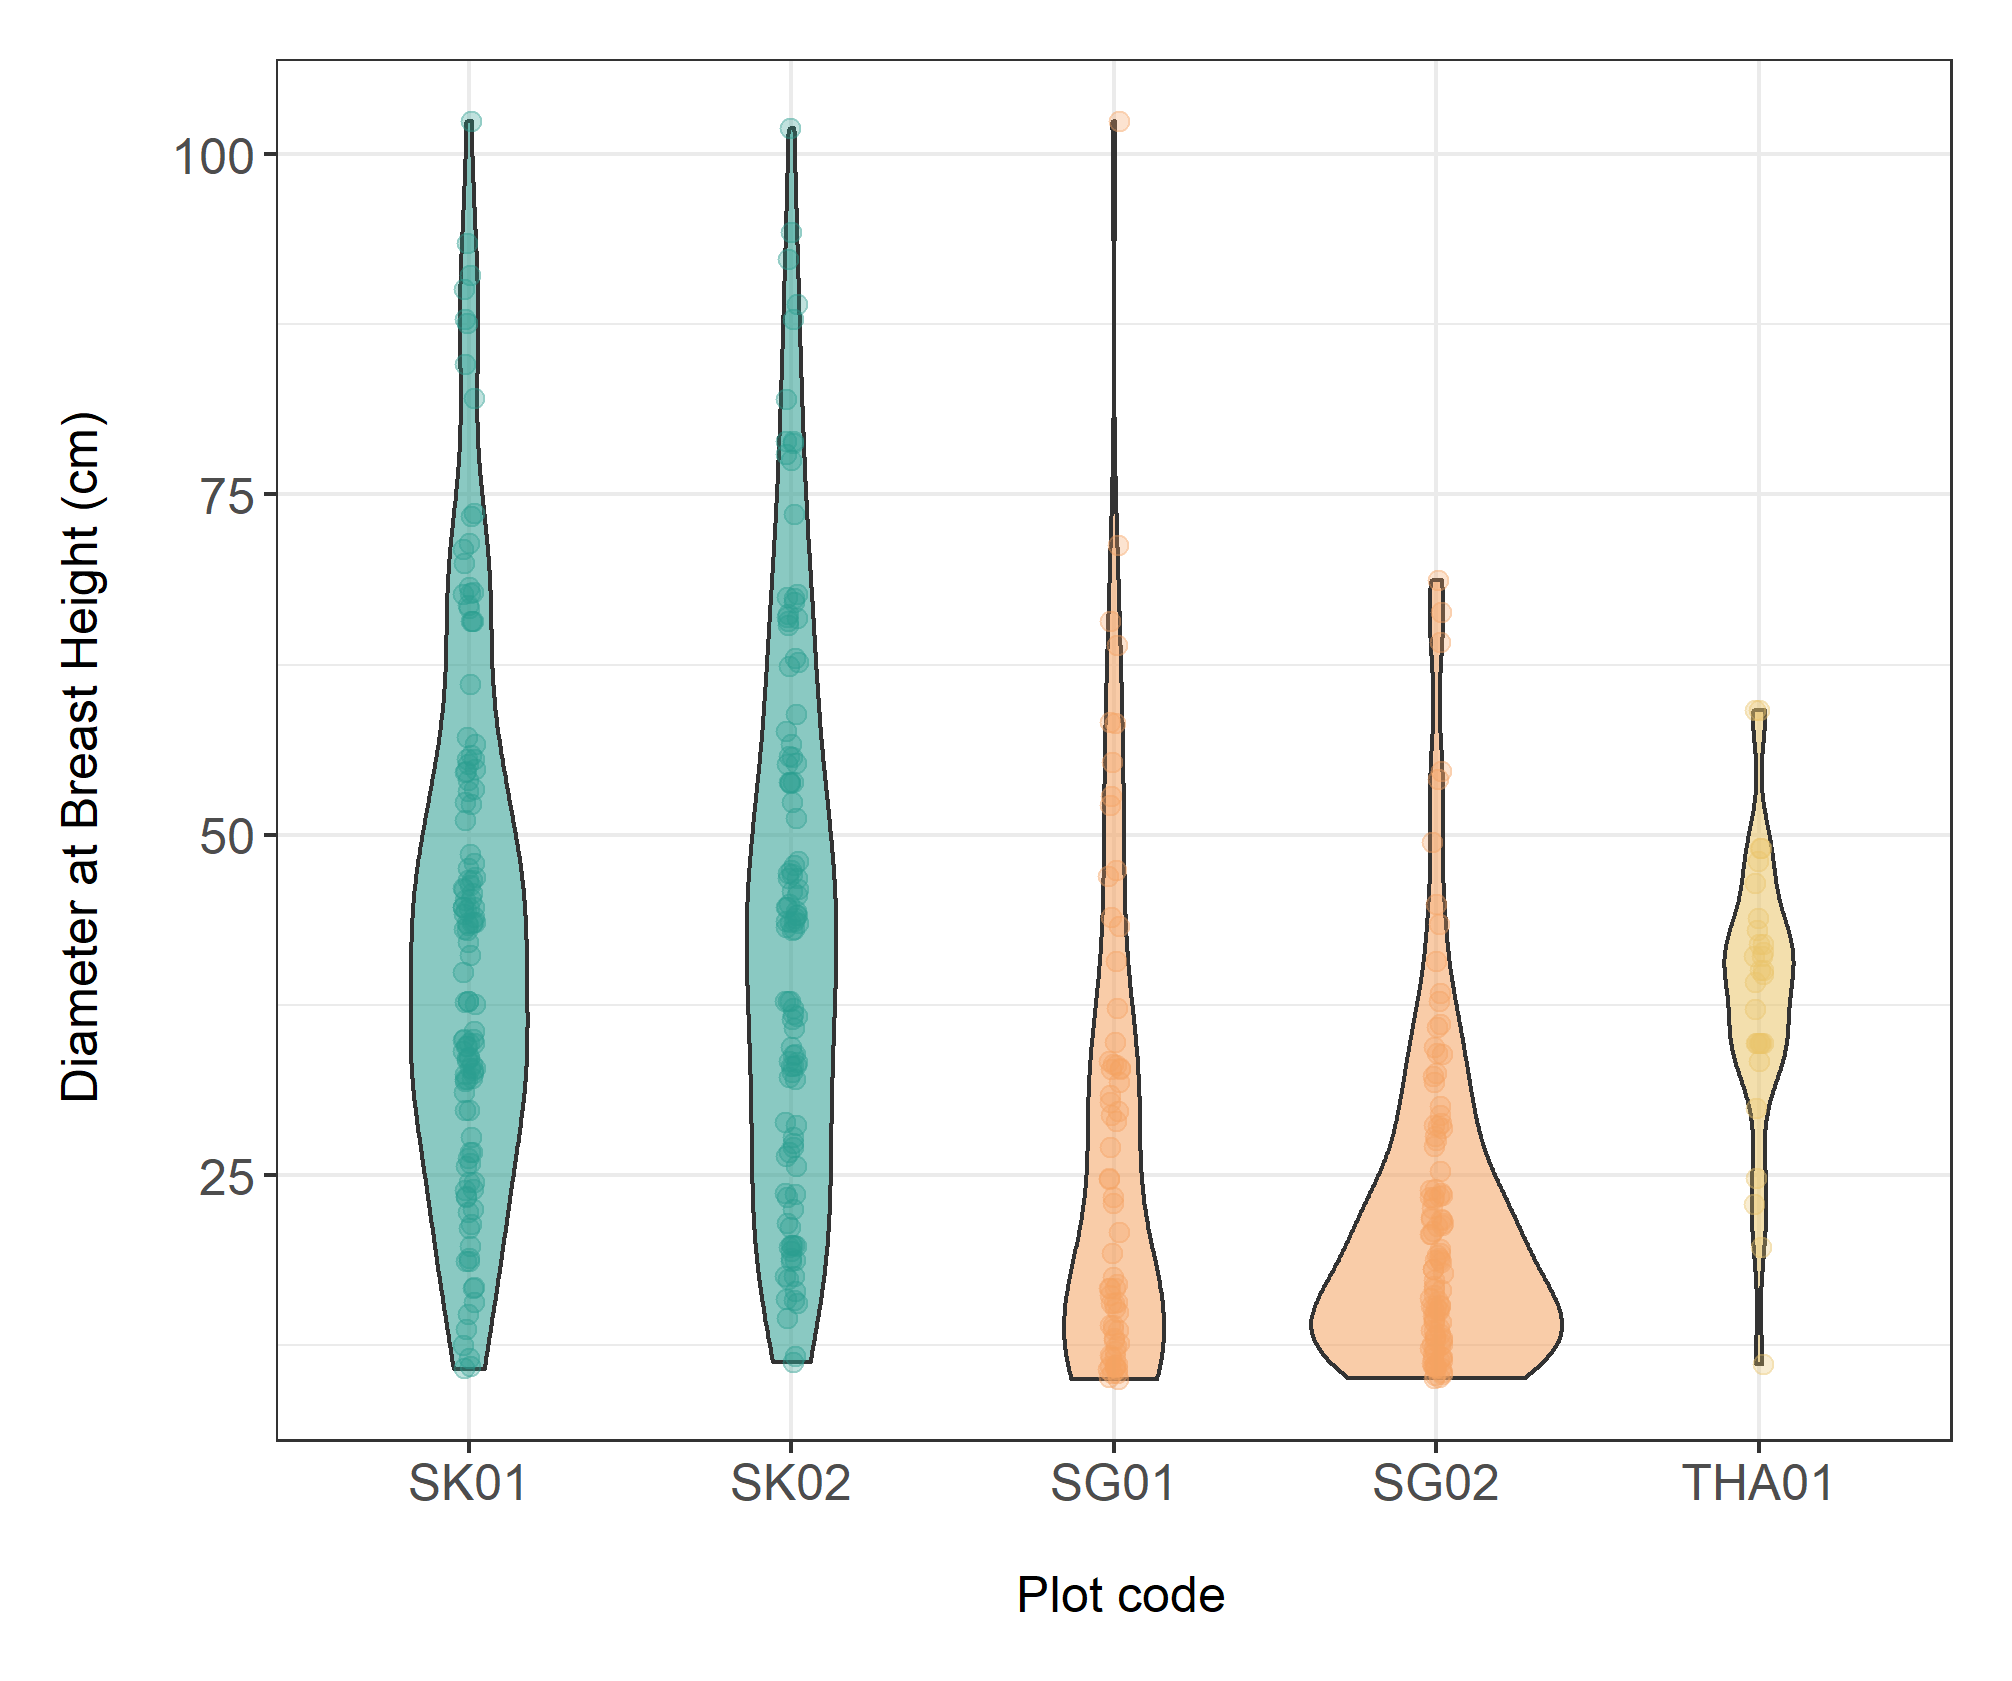
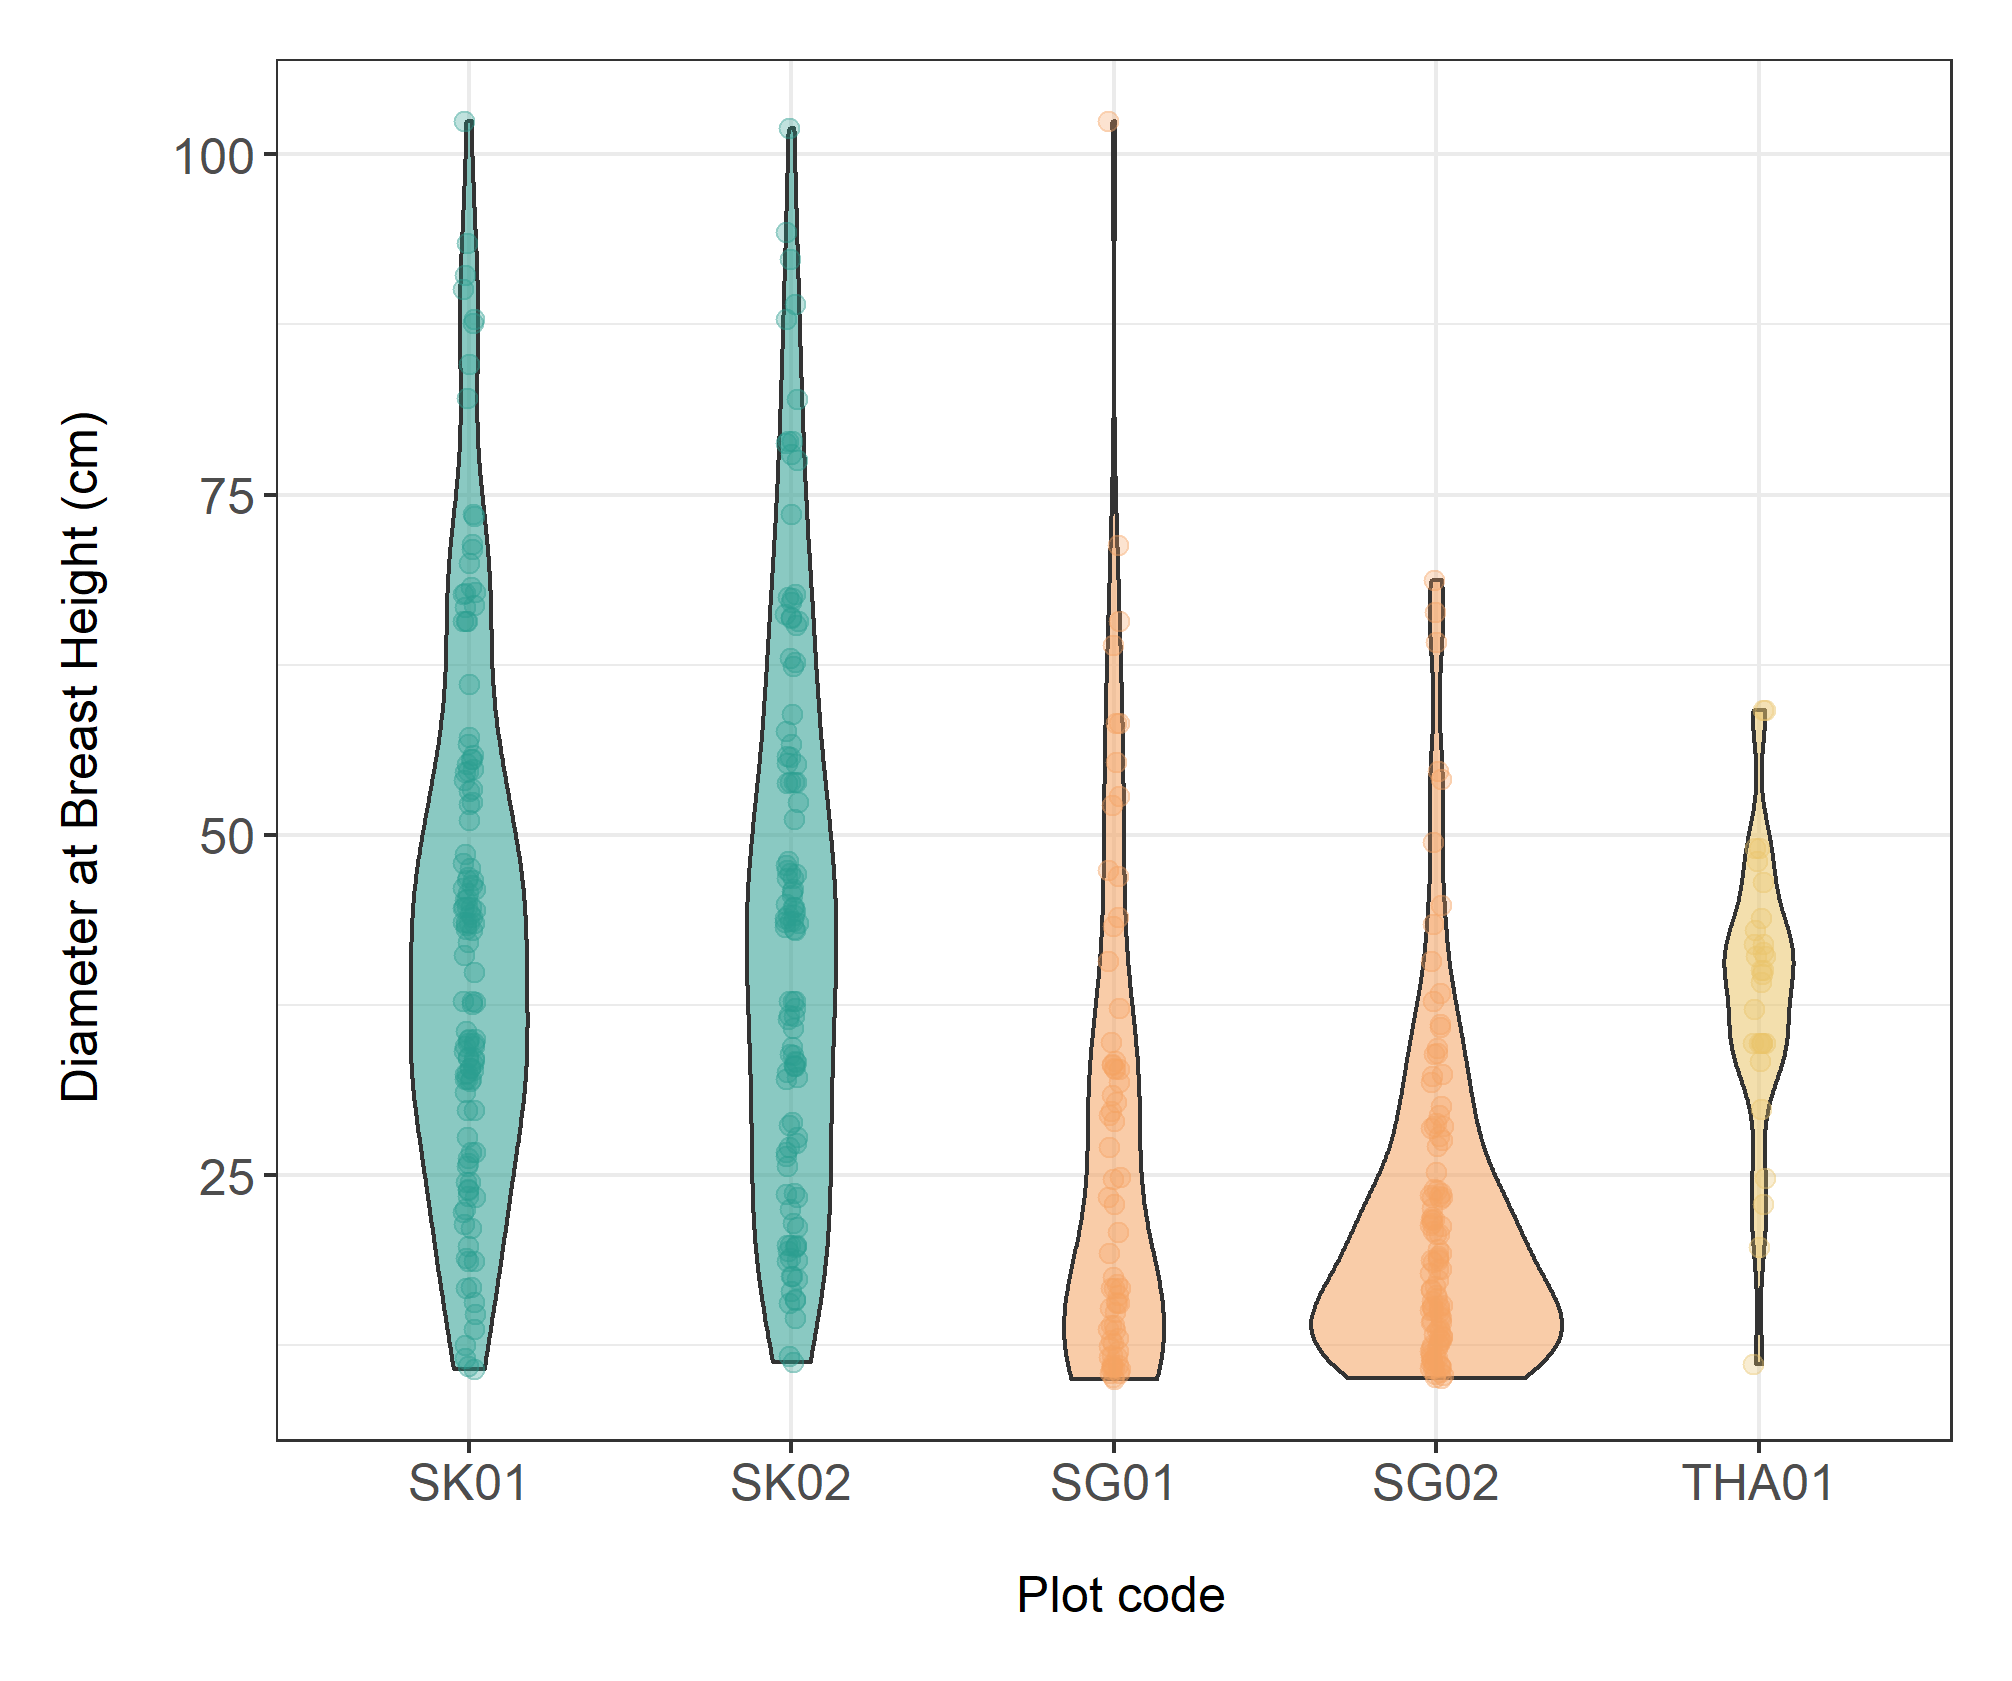
more graphs added + bug fixes

diff --git a/README.md b/README.md
@@ -3,10 +3,19 @@ Coded by Attapun Anivat (attapun-an) | 2020-11-13 | attapunanivat@gmail.com
 
 Graphing the biomass of trees within each plot as a barplot (to show biomass per hectare), violin plot (distribution of biomass within each plot), and barplot of stocking density
 
+___
+
 |![](Output/Mean-Biomass-Plot.png)|![](Output/DBH-within-plot.png)|
 |---|:---|
-|![](Output/Stocking-Density.png)|
+|![](Output/Stocking-Density.png)|![](Output/DBH-within-plot_scaled.png)|
+
+<br>
+
+<img src = "Output/Stacked.png" width = 70%>
+
+
+___
 
 Data from SK and SG plots were not collected by or owned by the programmer (was collected by different people as part of a group project), and was put here for the purpose of allowing the code to work/transparency.
 
-Required Packages: tidyverse, ggplot2, ggrepel
+Required Packages: tidyverse, ggrepel,
